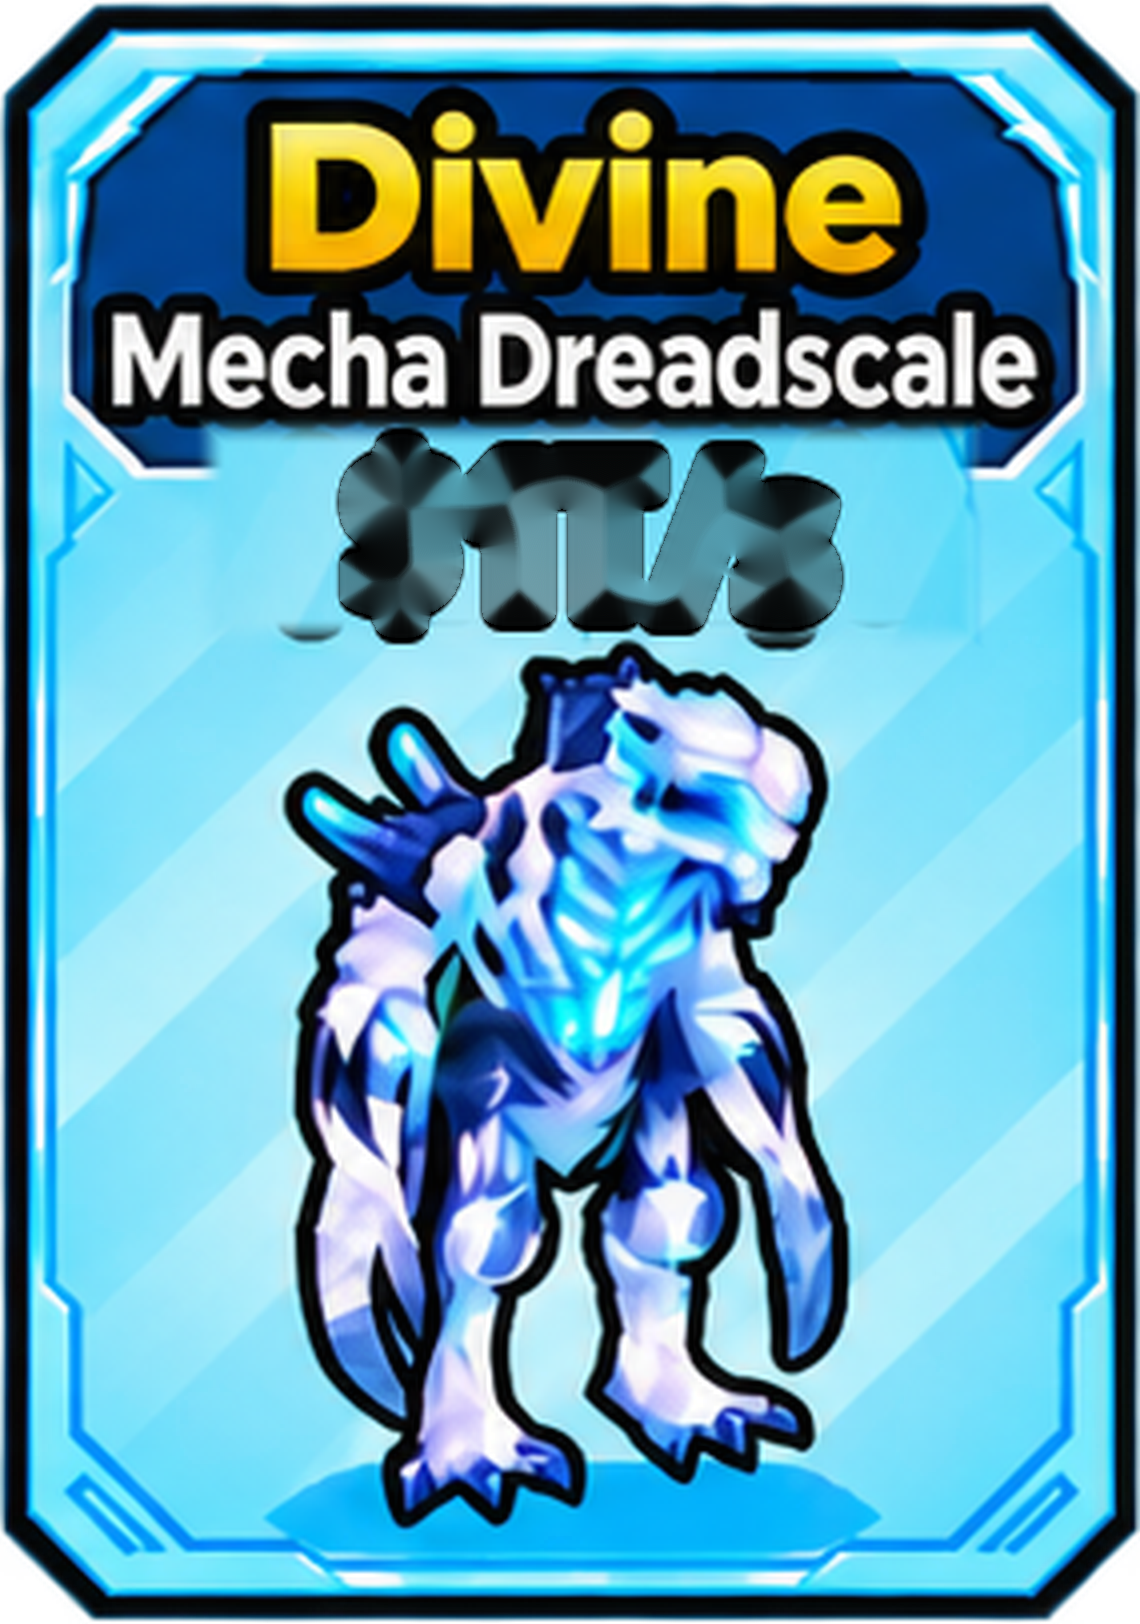
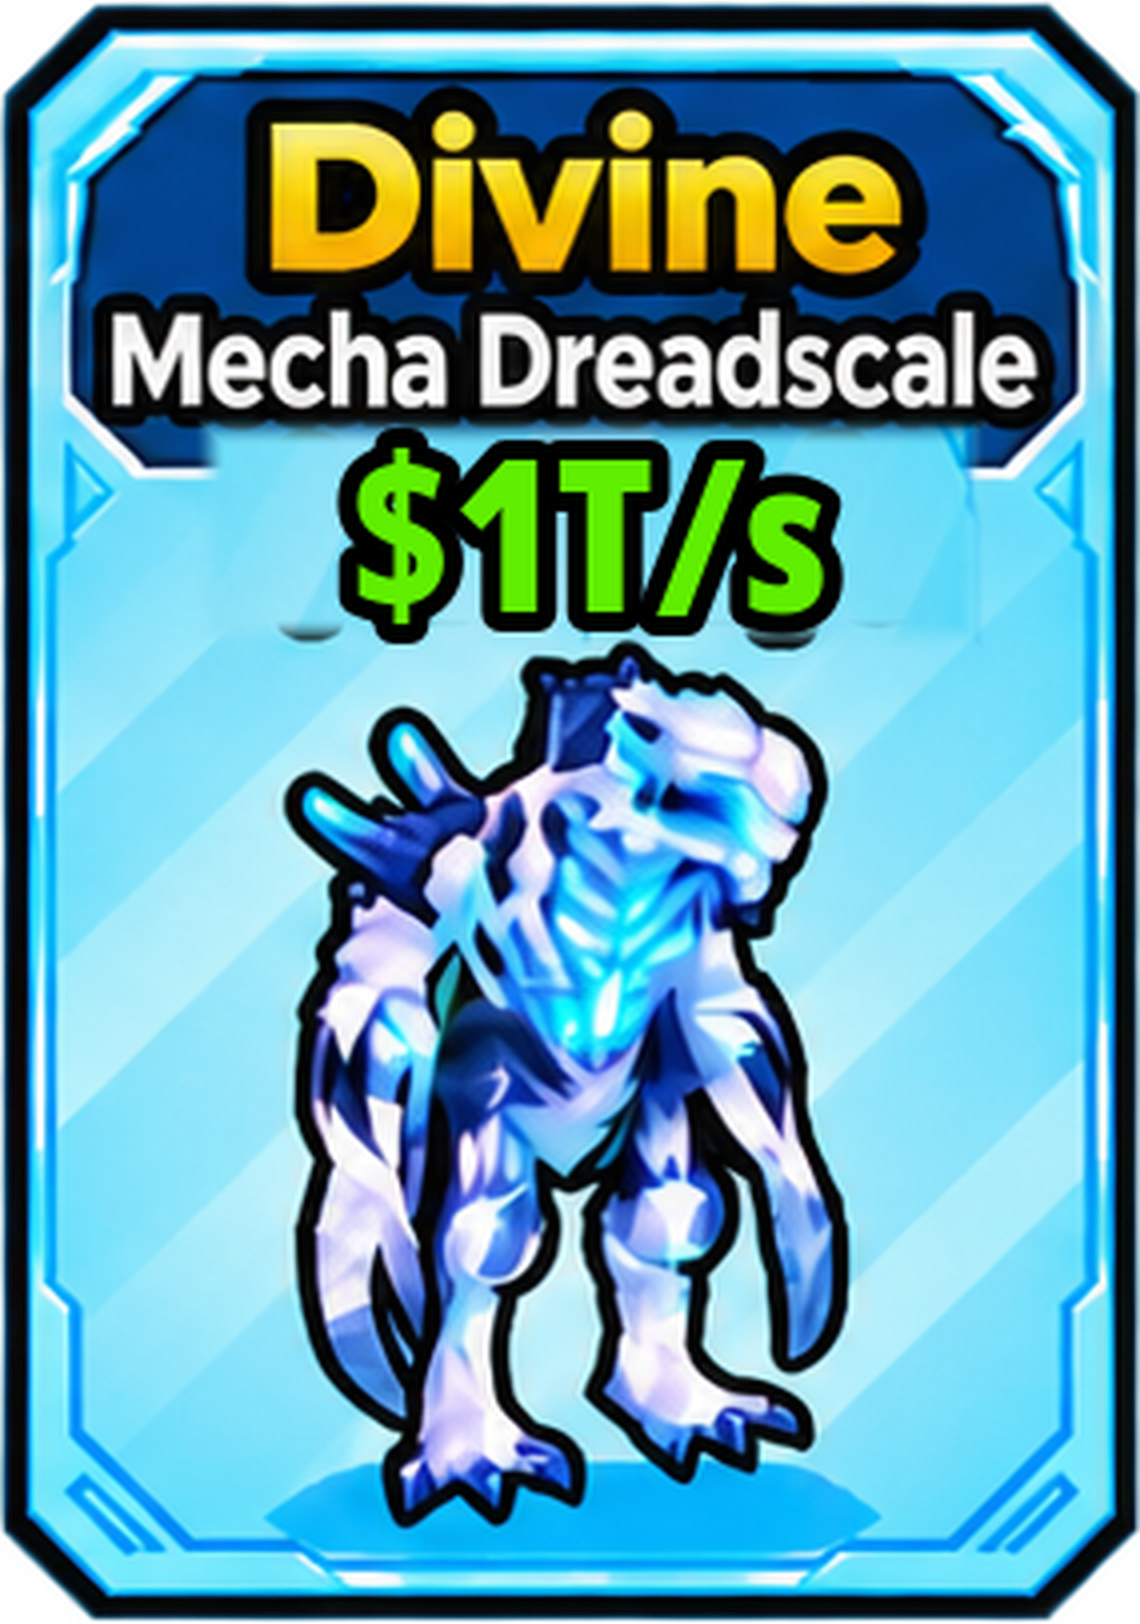
v4

Changed region(s): [[0.2763, 0.2463, 0.7368, 0.4002]]

diff --git a/config.js b/config.js
@@ -1,1 +1,1 @@
-window.SAE_CONFIG={"version":"5.17-clean-price-artifacts","cards":[{"id":"kitsune","name":"Kitsune","base":1800000000,"box":[22,93,285,405],"dynamic":true},{"id":"luminous_cthulhu","name":"Luminous Cthulhu","base":13000000000,"box":[320,92,292,407],"dynamic":true},{"id":"archangel","name":"ArchAngel","base":5000000000,"box":[625,92,286,407],"dynamic":true},{"id":"aetheron","name":"Aetheron","base":6900000000,"box":[922,92,293,407],"dynamic":true},{"id":"world_burner_cthulhu","name":"World Burner Cthulhu","base":5000000000,"box":[1224,92,294,407],"dynamic":true},{"id":"shattered_colossus","name":"Shattered Colossus","base":3500000000,"box":[21,515,286,407],"dynamic":true},{"id":"nightflame","name":"Nightflame","base":3000000000,"box":[320,516,293,407],"dynamic":true},{"id":"luminous_eggs","name":"Luminous Eggs","base":null,"box":[625,516,285,406],"dynamic":false},{"id":"cthulhu","name":"Cthulhu","base":5000000000,"box":[923,516,292,406],"dynamic":true},{"id":"mecha_dreadscale","name":"Mecha Dreadscale","base":4000000000,"box":[1230,516,285,406],"dynamic":true}],"mutations":{"silver":{"label":"Silver","multiplier":1.2},"golden":{"label":"Golden","multiplier":2.5},"rainbow":{"label":"Rainbow","multiplier":3.5},"bloom":{"label":"Bloom","multiplier":1.25},"spirit_bloom":{"label":"Spirit Bloom","multiplier":2.5},"parasite":{"label":"Parasite","multiplier":3.0},"fractured":{"label":"Fractured","multiplier":2.75}},"backend":"https://steal-an-egg-overlay-backend.leducho1900.workers.dev","room":"sae_421045db4089999b697c52d464c44d3a"};
+window.SAE_CONFIG={"version":"5.18-compact-price-cover","cards":[{"id":"kitsune","name":"Kitsune","base":1800000000,"box":[22,93,285,405],"dynamic":true},{"id":"luminous_cthulhu","name":"Luminous Cthulhu","base":13000000000,"box":[320,92,292,407],"dynamic":true},{"id":"archangel","name":"ArchAngel","base":5000000000,"box":[625,92,286,407],"dynamic":true},{"id":"aetheron","name":"Aetheron","base":6900000000,"box":[922,92,293,407],"dynamic":true},{"id":"world_burner_cthulhu","name":"World Burner Cthulhu","base":5000000000,"box":[1224,92,294,407],"dynamic":true},{"id":"shattered_colossus","name":"Shattered Colossus","base":3500000000,"box":[21,515,286,407],"dynamic":true},{"id":"nightflame","name":"Nightflame","base":3000000000,"box":[320,516,293,407],"dynamic":true},{"id":"luminous_eggs","name":"Luminous Eggs","base":null,"box":[625,516,285,406],"dynamic":false},{"id":"cthulhu","name":"Cthulhu","base":5000000000,"box":[923,516,292,406],"dynamic":true},{"id":"mecha_dreadscale","name":"Mecha Dreadscale","base":4000000000,"box":[1230,516,285,406],"dynamic":true}],"mutations":{"silver":{"label":"Silver","multiplier":1.2},"golden":{"label":"Golden","multiplier":2.5},"rainbow":{"label":"Rainbow","multiplier":3.5},"bloom":{"label":"Bloom","multiplier":1.25},"spirit_bloom":{"label":"Spirit Bloom","multiplier":2.5},"parasite":{"label":"Parasite","multiplier":3.0},"fractured":{"label":"Fractured","multiplier":2.75}},"backend":"https://steal-an-egg-overlay-backend.leducho1900.workers.dev","room":"sae_421045db4089999b697c52d464c44d3a"};

diff --git a/control.html b/control.html
@@ -3,7 +3,7 @@
 <head>
 <meta charset="utf-8"><meta name="viewport" content="width=device-width,initial-scale=1">
 <meta http-equiv="Cache-Control" content="no-cache, no-store, must-revalidate">
-<title>Steal An Egg Control V5.17</title>
+<title>Steal An Egg Control V5.18</title>
 <style>
 *{box-sizing:border-box}
 body{margin:0;background:#0b0d11;color:#fff;font-family:Arial,Helvetica,sans-serif}
@@ -49,7 +49,7 @@ button{border:0;border-radius:10px;padding:10px 13px;font-weight:900;cursor:poin
 @media(max-width:800px){.grid{grid-template-columns:1fr}.muts{grid-template-columns:repeat(2,1fr)}}
 </style>
 </head><body><main>
-<h1>🥚 Steal An Egg Control V5.17 — FIXED</h1>
+<h1>🥚 Steal An Egg Control V5.18 — FIXED</h1>
 <div class="sub"><span class="syncstatus" id="syncStatus">● Đang kiểm tra D1...</span> 
 Weight nhập <b>1–1000</b>. <b>Weight 1 = đúng tiền gốc</b>; tăng Weight thì tự nhân theo đường cong size.
 Mutation cộng bonus theo hệ số. Weight/Mutation tự tính tiền. Đồng bộ qua Cloudflare D1, không dùng Cache API. Weight/Mutation/Bật-Tắt/x2–x10 cập nhật chung một state; x1 không hiện nhãn, Luminous Eggs không có nhãn số lượng.
@@ -481,7 +481,7 @@ allOn.onclick=()=>{for(const c of CFG.cards)state.cards[c.id].enabled=true;saveA
 allOff.onclick=()=>{for(const c of CFG.cards)state.cards[c.id].enabled=false;saveAndPublish()};
 reset.onclick=()=>{for(const c of CFG.cards){state.cards[c.id].weight=1;state.cards[c.id].mutations=[];state.cards[c.id].qty=1}saveAndPublish()};
 copyLink.onclick=async()=>{
- const u=new URL("index.html?v=517",location.href).href;
+ const u=new URL("index.html?v=518",location.href).href;
  try{await navigator.clipboard.writeText(u);copyLink.textContent="ĐÃ COPY";setTimeout(()=>copyLink.textContent="Copy Overlay Link",1200)}
  catch(_e){prompt("Copy link Overlay:",u)}
 };

diff --git a/index.html b/index.html
@@ -4,7 +4,7 @@
 <meta charset="utf-8">
 <meta name="viewport" content="width=device-width,initial-scale=1">
 <meta http-equiv="Cache-Control" content="no-cache, no-store, must-revalidate">
-<title>Steal An Egg Overlay V5.17 CLEAN PRICE ARTIFACTS</title>
+<title>Steal An Egg Overlay V5.18 COMPACT PRICE COVER</title>
 <style>
 *{box-sizing:border-box}
 html,body{margin:0;width:100%;height:100%;background:transparent!important;overflow:hidden}
@@ -146,14 +146,29 @@ body{font-family:Arial,Helvetica,sans-serif}
 }
 /* Chỉ che dòng tiền CŨ trên giao diện. File PNG gốc không bị chỉnh sửa. */
 .price-cover{
-  display:none !important;
+  position:absolute;
+  left:8.6%;
+  right:8.6%;
+  top:25.9%;
+  height:13.0%;
+  z-index:30;
+  background:
+    repeating-linear-gradient(
+      135deg,
+      rgba(255,255,255,.10) 0 10px,
+      rgba(255,255,255,0) 10px 25px
+    ),
+    linear-gradient(180deg,#b9f2ff 0%,#9ee6f7 100%);
+  border-radius:6px;
+  pointer-events:none;
+  box-shadow:0 0 0 1px rgba(100,220,240,.10) inset;
 }
 .price-text{
   position:absolute;
   left:3.0%;
   right:3.0%;
-  top:26.4%;
-  height:12.8%;
+  top:25.7%;
+  height:13.8%;
   z-index:31;
   display:flex;
   align-items:center;
@@ -162,13 +177,13 @@ body{font-family:Arial,Helvetica,sans-serif}
   color:#35B900;
   font-family:"Arial Black","DejaVu Sans",Arial,sans-serif;
   font-weight:1000;
-  font-size:15.4cqw;
+  font-size:15.8cqw;
   line-height:.94;
   letter-spacing:-.035em;
   white-space:nowrap;
   -webkit-text-stroke:.58cqw #070707;
   paint-order:stroke fill;
-  text-shadow:none !important;
+  text-shadow:none!important;
   transform-origin:center center;
   -webkit-font-smoothing:antialiased;
   pointer-events:none;
